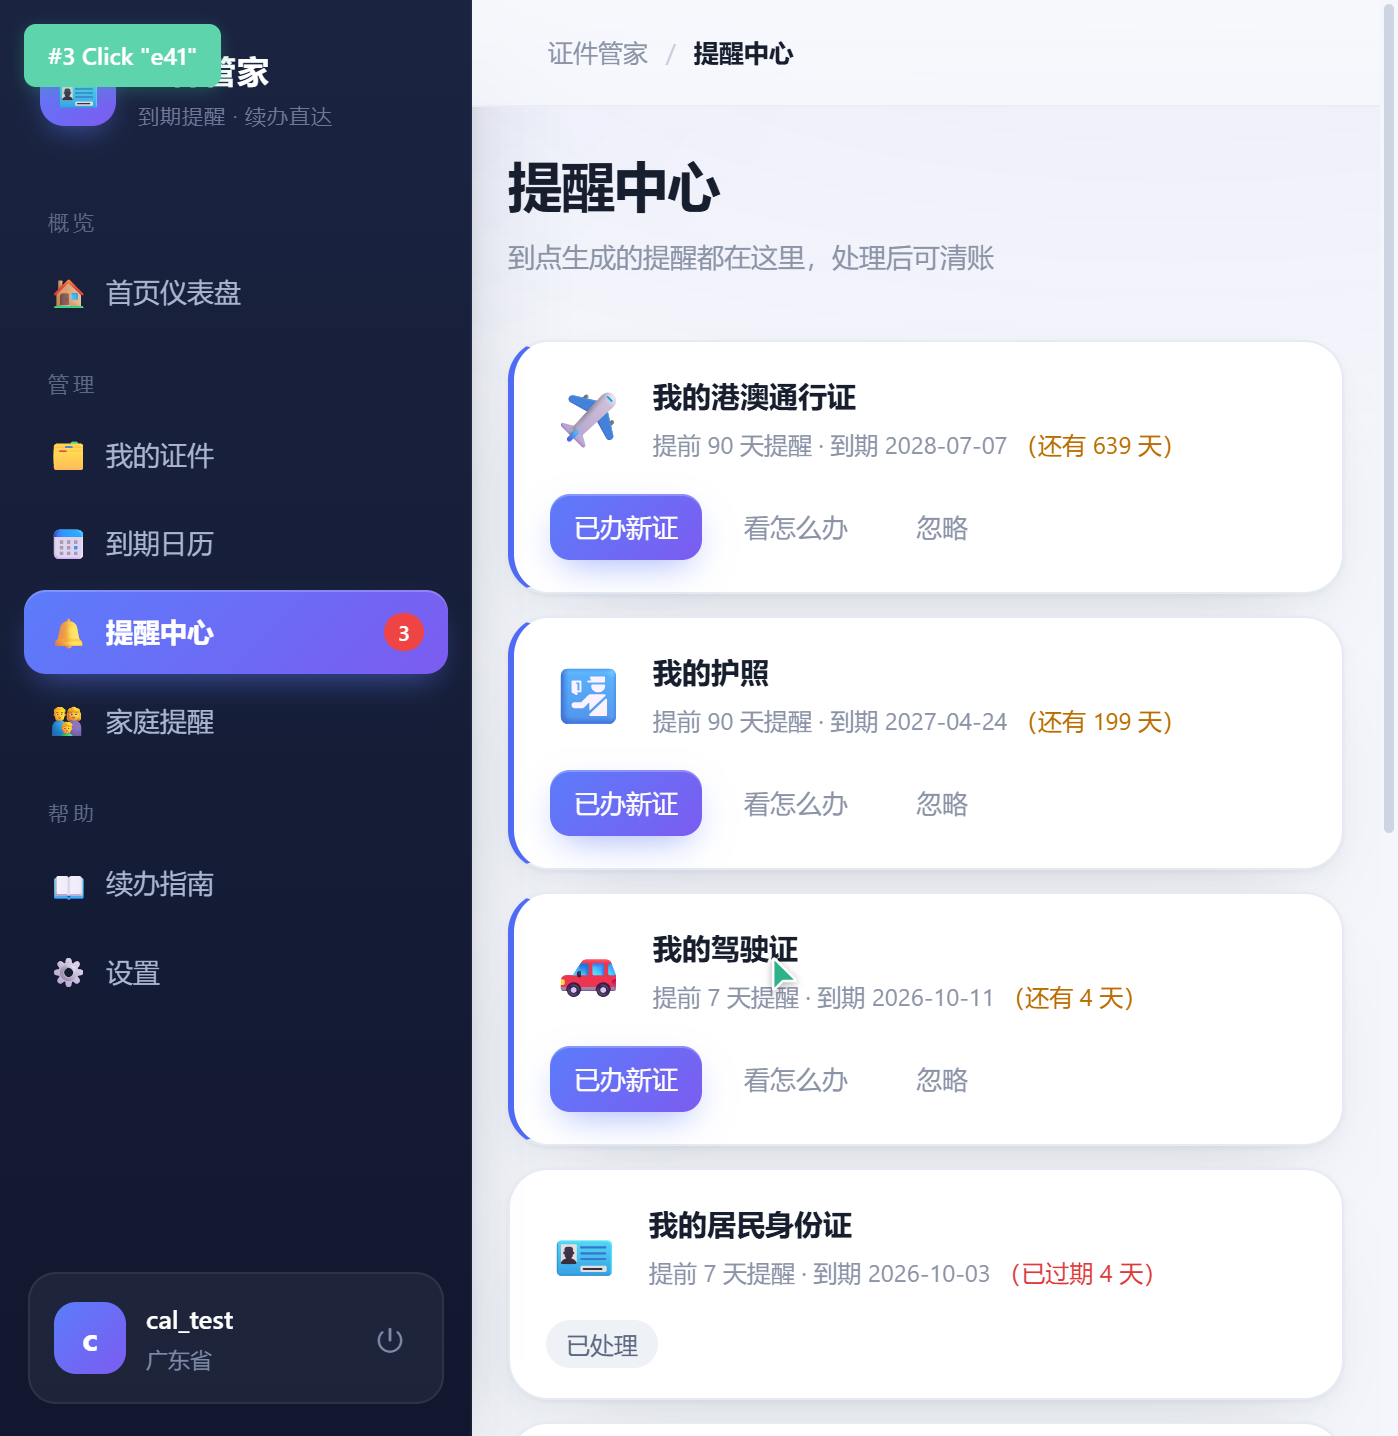
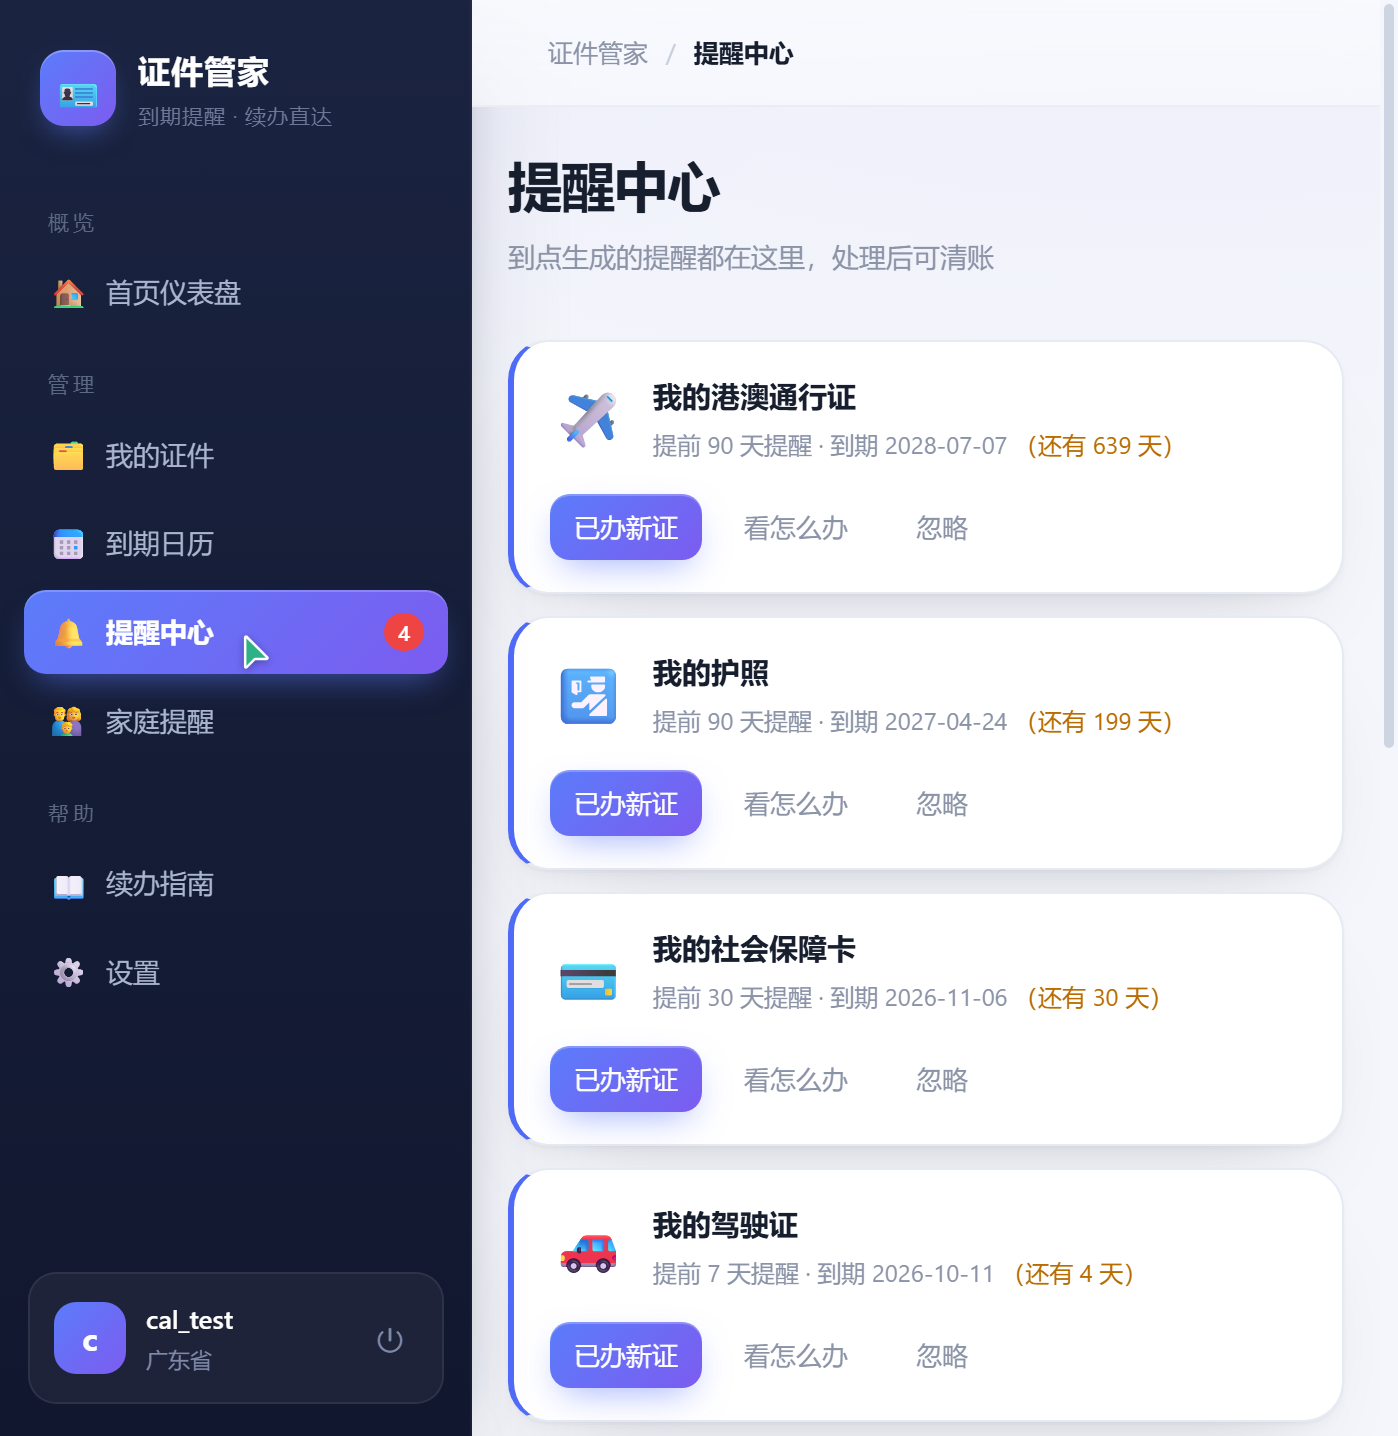
更新界面展示：修正技术栈标签，新增智能功能截图

diff --git a/docs/界面展示.md b/docs/界面展示.md
@@ -1,6 +1,8 @@
 # 证件管家 · 界面展示
 
-> 证件到期提醒与续办管理平台。以下均为系统真实运行截图。
+> 证件到期提醒与续办管理平台。签发日期 + 年限自动算到期，90/30/7 天分级提醒引擎，全国 31 省级行政区官方续办指南。以下均为系统真实运行截图。
+
+**技术栈**：Vue 3 · FastAPI · MySQL 8 · Redis · AES-256-GCM 加密
 
 ## 界面总览
 
@@ -8,13 +10,13 @@
 
 ## 分页截图
 
-### 1. 登录 / 注册
+### 1. 首页仪表盘 · 到期统计与过期预警
 
-![登录 / 注册](images/01-login.png)
+![首页仪表盘 · 到期统计与过期预警](images/01-dashboard.png)
 
-### 2. 证件总览仪表盘
+### 2. 添加证件 · 到期日自动计算
 
-![证件总览仪表盘](images/02-dashboard.png)
+![添加证件 · 到期日自动计算](images/02-add-autocalc.png)
 
 ### 3. 我的证件 · 智能筛选
 
@@ -24,9 +26,9 @@
 
 ![续办日历](images/04-calendar.png)
 
-### 5. 提醒中心
+### 5. 提醒中心 · 90/30/7 天分级提醒
 
-![提醒中心](images/05-reminders.png)
+![提醒中心 · 90/30/7 天分级提醒](images/05-reminders.png)
 
 ### 6. 全国续办办理指南
 
